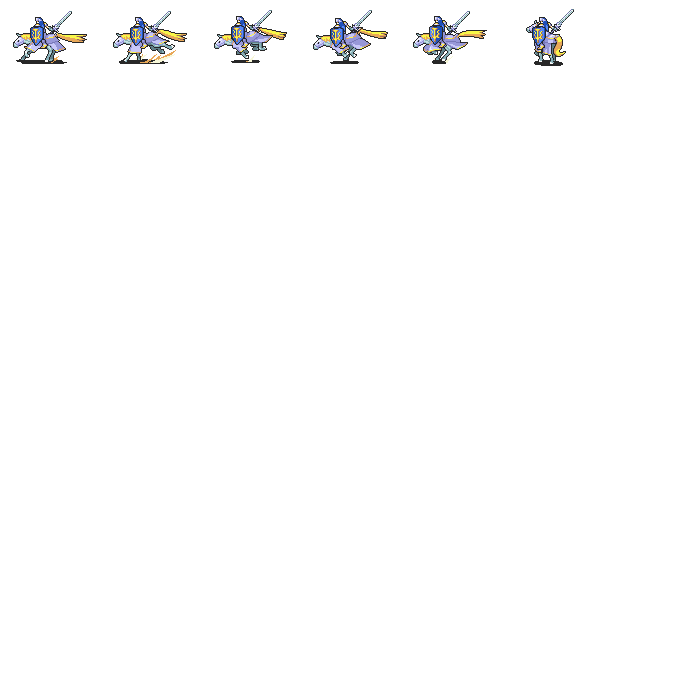
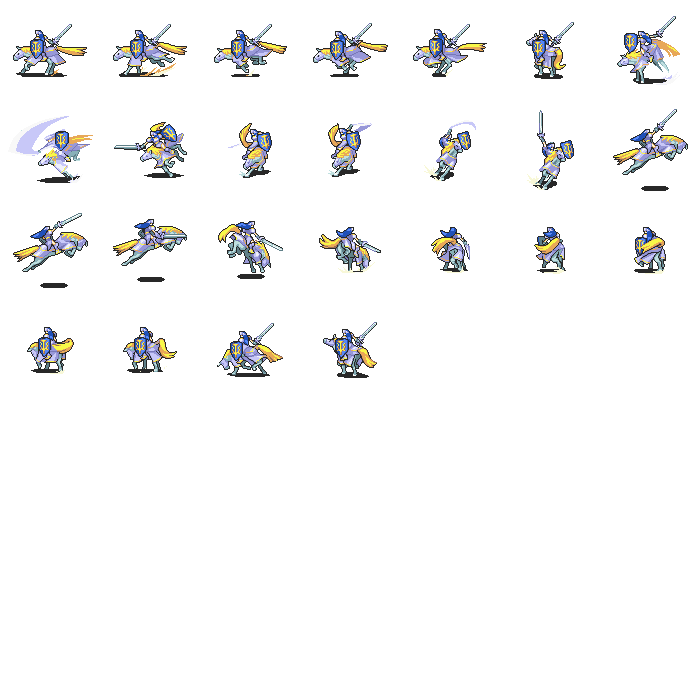
Added attacking for sword1 spritesheet

diff --git a/src/scenes/title.js b/src/scenes/title.js
@@ -10,12 +10,12 @@ class TitleScreen extends Phaser.Scene {
 	preload() {
 		//load in the spritesheet for testing
 	  	this.load.spritesheet("jouster", jousterImg, {frameWidth: 60, frameHeight: 74});
-	  	this.load.spritesheet("sword1", swordImg, {frameWidth: 100, frameHeight: 75});
+	  	this.load.spritesheet("sword1", swordImg, {frameWidth: 100, frameHeight: 100});
 	}
 
 	create() {
 		//testing for sprites of players
-	 	let jouster = this.add.sprite(300, 200, "jouster", 0);
+	 	let jouster = this.add.sprite(300, 200, "sword1", 5);
 
 	 	//running animation goes here
 	  	this.anims.create({
@@ -33,11 +33,11 @@ class TitleScreen extends Phaser.Scene {
 		  	//repeat -1 means it loops
 		  	repeat: -1,
 		  	frameRate: 10,
-		  	frames: this.anims.generateFrameNames('jouster', {start: 10, end: 19})
+		  	frames: this.anims.generateFrameNames('sword1', {start: 6, end: 24})
 	  	});
 
 	  	//play the 2 animations to test them
-	  	//jouster.play('attacking');
+	  	jouster.play('attacking');
 	  	let jouster2 = this.add.sprite(500, 200, "sword1", 0);
 	  	jouster2.play('running');
 

diff --git a/src/scenes/game.js b/src/scenes/game.js
@@ -1,7 +1,11 @@
+//Creates phaser class for the scene
 class GameScreen extends Phaser.Scene {
+
 	constructor() {
+		//the key that references this class, which is used by other functions
 		super('GameScreen')
 	}
+
 	preload() {
 	  	
 	}
@@ -12,4 +16,5 @@ class GameScreen extends Phaser.Scene {
 	}
 }
 
+//exports the scene so config can load it
 export default GameScreen;
